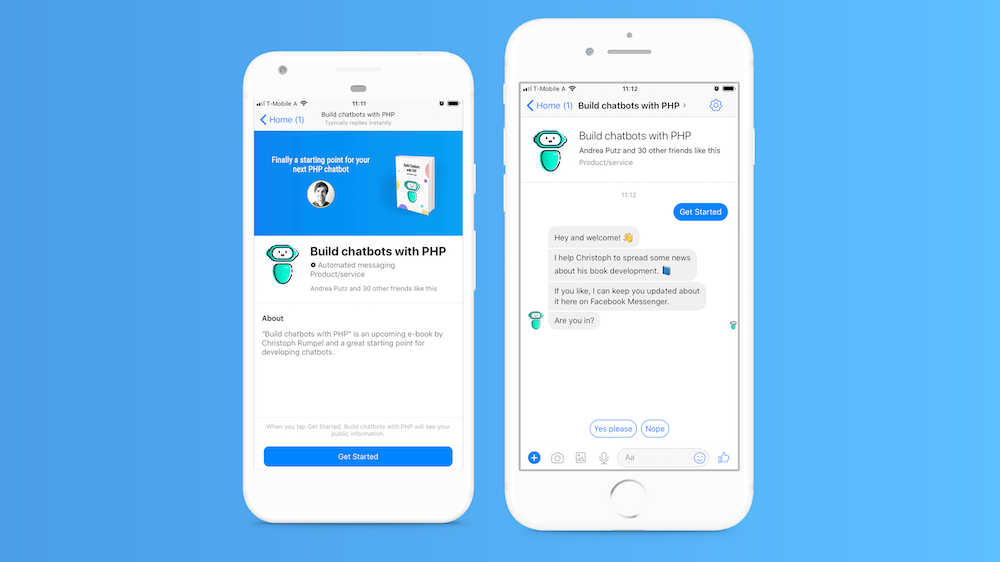
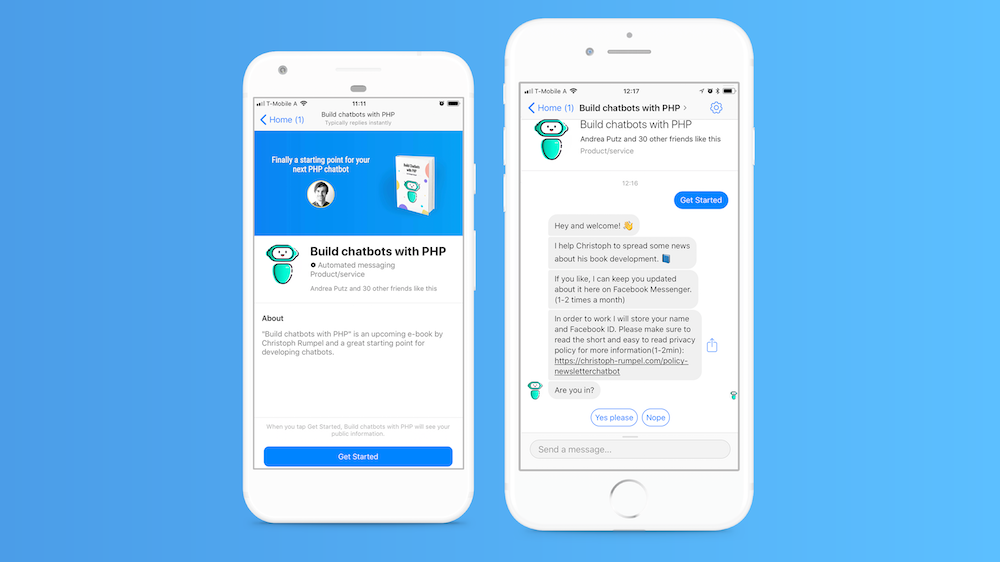
Update NL bot articles to follow the GDPR changes

diff --git a/content/posts/2018-03-08.build-a-newsletter-chatbot-in-php-part-2.md b/content/posts/2018-03-08.build-a-newsletter-chatbot-in-php-part-2.md
@@ -22,9 +22,6 @@ public function up()
         $table->string('fb_id');
         $table->string('first_name');
         $table->string('last_name');
-        $table->string('profile_pic')->nullable();
-        $table->string('locale', 8)->nullable();
-        $table->string('gender')->nullable();
         $table->boolean('subscribed')->default(false);
         $table->timestamps();
     });
@@ -35,37 +32,7 @@ Now create the table with `php artisan migrate`.
 
 <div class="blognote"><strong>Note:</strong> Make sure you have already setup your database in your .env file, to make this work.</div>
 
-With that done, we need a place where we add the users. For this purpose, I'd like to use a BotMan middleware. Like a Laravel middleware, it lets us perform tasks, at certain points of the request cycle. For all incoming messages, I want to add or update a user. We can use the BotMan `Heard Middleware` for that. It will be called every time a message was matched by a listener. <br /><br />
-Create the `SaveUserMiddleware.php` file inside `App\Http\Middleware`. Here is the code.
-
-```php
-<?php
-
-namespace App\Http\Middleware;
-
-use App\User;
-use BotMan\BotMan\BotMan;
-use BotMan\BotMan\Interfaces\Middleware\Heard;
-use BotMan\BotMan\Messages\Incoming\IncomingMessage;
-
-class SaveUserMiddleware implements Heard
-{
-    public function heard(IncomingMessage $message, $next, BotMan $bot)
-    {
-        $user = $bot->getUser();
-
-        if($user instanceof \BotMan\Drivers\Facebook\Extensions\User) {
-            User::createFromIncomingMessage($user);
-        }
-
-        return $next($message);
-    }
-}
-```
-
-Inside the `heard` method we grab the BotMan user object and put it inside a user model method. We need to check if the message is from Facebook Messenger because we are going to store specific Facebook values. To accomplish it we could check the matched BotMan driver,or like we did, check the user object. Every driver has their own user class.
-<br /><br />
-And in the `App/User.php` user model, we update or create the user.
+And in the `App/User.php` user model, we ad a method to update or create a user.
 
 ```php
 public static function createFromIncomingMessage(\BotMan\Drivers\Facebook\Extensions\User $user)
@@ -88,25 +55,20 @@ protected $fillable = [
     'fb_id',
     'first_name',
     'last_name',
-    'profile_pic',
-    'gender',
-    'locale',
 ];
 ```
-
-Last step here is to add the middleware in our `botman.php` file. Place it above the `hears` listeners.
+We want to add a new user after the subscription approval.
 
 ```php
-$middleware = new SaveUserMiddleware();
-$botman->middleware->heard($middleware);
+if ($answer->getValue() === 'yes') {
+	User::createFromIncomingMessage($this->bot->getUser());
+	$this->bot->reply('Wuhu, great to have you on board! 🎉');
+	$this->bot->reply('I will message you when there is something new to tell ✌');
+} else {
+	$this->bot->reply('Ok no problem. If change your mind, just type "subscribe".');
+}
 ```
-
-Don't forget to set the additional namespace `use App\Http\Middleware\SaveUserMiddleware;`.
-<br /><br />
-
-Give it a try. Type "subscribe" in the chat and with a little luck, you should get a reply and new user entry in your database.
-
-<img class="blogimage" alt="Screenshot showing the new user in the database" src="/images/blog/nl_bot_database.png" />
+Don't forget to add the user class namespace `use App\User;` to the top of the file as well. Give it a try. Type "subscribe" in the chat and with a little luck, you should get a reply and new user entry in your database.<br /><br />
 
 If not, check your logs for errors. If your app is responding to Facebook with a 500 error, make sure to uncomment the lines responsible for it immediately. This is important because Facebook will send, in case of an error, the message again and again. The sooner your application responds with a 200 code, the better it is. You can debug afterwards.
 
@@ -152,6 +114,7 @@ Nothing special here. We are just checking to see if the user exists and then ch
 
 ```php
 if ($answer->getValue() === 'yes') {
+	User::createFromIncomingMessage($this->bot->getUser());
     User::subscribe($answer->getMessage()->getSender()); // new
     $this->bot->reply('Woohoo, great to have you on board! 🎉');
     $this->bot->reply('I will message you when there is something new to tell ✌');
@@ -160,7 +123,6 @@ if ($answer->getValue() === 'yes') {
     $this->bot->reply('Ok no problem. If change your mind, just type "subscribe".');
 }
 ```
-You will also need to import the new user class `use App\User;` at the top of the file.
 And again please try it out yourself. When you subscribe, you should see that in the user table in your database.
 
 ## Sending newsletters
@@ -325,15 +287,11 @@ Another great little BotMan feature is the `fallback` method. For all incoming m
 <?php
 
 use BotMan\BotMan\BotMan;
-use App\Http\Middleware\SaveUserMiddleware;
 use App\Http\Conversations\SubscribeConversation;
 use BotMan\Drivers\Facebook\Extensions\ButtonTemplate;
 use BotMan\Drivers\Facebook\Extensions\ElementButton;
 
 $botman = resolve('botman');
-
-$middleware = new SaveUserMiddleware();
-$botman->middleware->heard($middleware);
 
 $botman->hears('GET_STARTED|subscribe', function (BotMan $bot) {
     $userFromStartButton = $bot->getMessage()->getText() === 'GET_STARTED' ? true : false;
@@ -412,7 +370,8 @@ It sends an HTTP request to Facebook and you should see a success message in you
 
 <img class="blogimage" alt="Screenshot showing our chatbots menu" src="/images/blog/nl_bot_menu.png" />
 
+<div class="blognote"><strong>Note:</strong> Due to the GDPR I had to add additional menu items to let users see the stored personal data and to let them delete it if wanted. Read more about in my article <a href="https://christoph-rumpel.com/2018/04/make-your-chatbots-gdpr-compliant">Make Your Chatbots GDPR Compliant</a>.</div>
 
 ## Next up
 
-That's it for part two of this little series. We are able to store users and to flag the subscribed ones. I also showed you how to send out your first newsletter and we integrated some extras for our bot. But we are not finished yet. The next part will be about adding this chatbot to a website and about writing our first tests. So stay tuned, for the third and final part.
+That's it for part two of this little series. We are able to store users and to flag the subscribed ones. I also showed you how to send out your first newsletter and we integrated some extras for our bot. But we are not finished yet. [The next part](https://christoph-rumpel.com/2018/03/build-a-newsletter-chatbot-in-php-part-3) will be about adding this chatbot to a website and about writing our first tests. So stay tuned, for the third and final part.

diff --git a/content/posts/2018-03-26.build-a-newsletter-chatbot-in-php-part-3.md b/content/posts/2018-03-26.build-a-newsletter-chatbot-in-php-part-3.md
@@ -157,14 +157,15 @@ Besides, we can trigger the other messages with the `subscribe` keyword as well.
 public function it_subscribes_a_user()
 {
     $this->bot->receives('subscribe')
-        ->assertReply('I help Christoph to spread some news about his book development. 📘')
-        ->assertReply('If you like, I can keep you updated about it here on Facebook Messenger.')
-        ->assertQuestion('Are you in?')
-        ->receives('yes')
-        ->assertReply('Woohoo, great to have you on board! 🎉')
-        ->assertReply('I will message you when there is something new to tell ✌')
-        ->assertReply("Christoph also likes to blog a lot. Make sure to check out his site for more chatbot stuff: \n ✨ https://christoph-rumpel.com/ ✨ ")
-        ->assertReply('See you! 👋');
+		->assertReply('I help Christoph to spread some news about his book development. 📘')
+		->assertReply('If you like, I can keep you updated about it here on Facebook Messenger. (1-2 times a month)')
+		->assertReply("In order to work I will store your name and Facebook ID. Please make sure to read the short and easy to read privacy policy for more information(1-2min): \nhttps://christoph-rumpel.com/policy-newsletterchatbot")
+		->assertQuestion('Are you in?')
+		->receives('yes')
+		->assertReply('Woohoo, great to have you on board! 🎉')
+		->assertReply('I will message you when there is something new to tell ✌')
+		->assertReply("Christoph also likes to blog a lot. Make sure to check out his site for more chatbot stuff: \n ✨ https://christoph-rumpel.com/ ✨ ")
+		->assertReply('See you! 👋');
 }
 ```
 Here we listen to the subscribe message, then assert some messages as well as a question. Additionally, we chain another incoming user message and assert the rest of the replies. `yes` is the value of our `Yes please` button. We can just use it as a trigger for the other messages. To test the negative reply, let's create another test method.
@@ -176,13 +177,14 @@ Here we listen to the subscribe message, then assert some messages as well as a 
 public function it_unsubscribes_a_user()
 {
     $this->bot->receives('subscribe')
-        ->assertReply('I help Christoph to spread some news about his book development. 📘')
-        ->assertReply('If you like, I can keep you updated about it here on Facebook Messenger.')
-        ->assertQuestion('Are you in?')
-        ->receives('no')
-        ->assertReply('Ok no problem. If change your mind, just type "subscribe".')
-        ->assertReply("Christoph also likes to blog a lot. Make sure to check out his site for more chatbot stuff: \n ✨ https://christoph-rumpel.com/ ✨ ")
-        ->assertReply('See you! 👋');
+		->assertReply('I help Christoph to spread some news about his book development. 📘')
+		->assertReply("If you like, I can keep you updated about it here on Facebook Messenger. (1-2 times a month)")
+		->assertReply("In order to work I will store your name and Facebook ID. Please make sure to read the short and easy to read privacy policy for more information(1-2min): \nhttps://christoph-rumpel.com/policy-newsletterchatbot")
+		->assertQuestion('Are you in?')
+		->receives('no')
+		->assertReply('Ok no problem. If you change your mind, just type "subscribe" or use the menu.')
+		->assertReply("Christoph also likes to blog a lot. Make sure to check out his site for more chatbot stuff: \n ✨ https://christoph-rumpel.com/ ✨ ")
+		->assertReply('See you! 👋');
 }
 ```
 
@@ -198,12 +200,11 @@ Here is the whole test file now.
 namespace Tests\BotMan;
 
 use Tests\TestCase;
-use Illuminate\Foundation\Testing\DatabaseMigrations;
+use Illuminate\Foundation\Testing\DatabaseTransactions;
 
 class SubscribeConversationTest extends TestCase
 {
-
-    use DatabaseMigrations;
+    use DatabaseTransactions;
 
     /**
      * @test
@@ -222,7 +223,8 @@ class SubscribeConversationTest extends TestCase
     {
         $this->bot->receives('subscribe')
             ->assertReply('I help Christoph to spread some news about his book development. 📘')
-            ->assertReply('If you like, I can keep you updated about it here on Facebook Messenger.')
+            ->assertReply('If you like, I can keep you updated about it here on Facebook Messenger. (1-2 times a month)')
+            ->assertReply("In order to work I will store your name and Facebook ID. Please make sure to read the short and easy to read privacy policy for more information(1-2min): \nhttps://christoph-rumpel.com/policy-newsletterchatbot")
             ->assertQuestion('Are you in?')
             ->receives('yes')
             ->assertReply('Woohoo, great to have you on board! 🎉')
@@ -238,14 +240,17 @@ class SubscribeConversationTest extends TestCase
     {
         $this->bot->receives('subscribe')
             ->assertReply('I help Christoph to spread some news about his book development. 📘')
-            ->assertReply('If you like, I can keep you updated about it here on Facebook Messenger.')
+            ->assertReply("If you like, I can keep you updated about it here on Facebook Messenger. (1-2 times a month)")
+            ->assertReply("In order to work I will store your name and Facebook ID. Please make sure to read the short and easy to read privacy policy for more information(1-2min): \nhttps://christoph-rumpel.com/policy-newsletterchatbot")
             ->assertQuestion('Are you in?')
             ->receives('no')
-            ->assertReply('Ok no problem. If change your mind, just type "subscribe".')
+            ->assertReply('Ok no problem. If you change your mind, just type "subscribe" or use the menu.')
             ->assertReply("Christoph also likes to blog a lot. Make sure to check out his site for more chatbot stuff: \n ✨ https://christoph-rumpel.com/ ✨ ")
             ->assertReply('See you! 👋');
     }
 }
+
+
 ```
 
 As you have probably noticed, we had to duplicate the beginning of the subscribe conversation. This is something that bothers me a lot, and I am already figuring out with Marcel how to create a better solution. Still, these few tests are beneficial and useful examples. 

diff --git a/content/posts/2018-02-28.build-a-newsletter-chatbot-in-php-part-1.md b/content/posts/2018-02-28.build-a-newsletter-chatbot-in-php-part-1.md
@@ -7,6 +7,8 @@ preview_image: images/blog/nl_bot_final.png
 
 <img class="blogimage" alt="Screenshot showing the final chatbot result" src="/images/blog/nl_bot_final.png" />
 
+<div class="blognote"><strong>Note:</strong> This turoial was updated on 24.04.2018 due to the GDPR. If you're interested in this new regulation, find my summary about it <a href="https://christoph-rumpel.com/2018/04/make-your-chatbots-gdpr-compliant">here</a>.</div>
+
 ## What book?
 
 Since the beginning of the year, I am working on a new project of mine. It's a book called [Build Chatbots with PHP](https://christoph-rumpel.com/build-chatbots-with-php). Follow the link to find out what it is about and who it is for.
@@ -209,7 +211,8 @@ class SubscribeConversation extends Conversation
     private function askAboutSubscription()
     {
         $this->bot->reply('I help Christoph to spread some news about his book development. 📘');
-        $this->bot->reply('If you like, I can keep you updated about it here on Facebook Messenger.');
+        $this->bot->reply("If you like, I can keep you updated about it here on Facebook Messenger. (1-2 times a month)");
+        $this->bot->reply("In order to work I will store your name and Facebook ID. Please make sure to read the short and easy to read privacy policy for more information(1-2min): \nhttps://christoph-rumpel.com/policy-newsletterchatbot");
 
         $question = Question::create('Are you in?')
             ->addButtons([

diff --git a/content/posts/2018-01-11.how-i-redesigned-my-blog-and-moved-it-from-jekyll-to-laravel.md b/content/posts/2018-01-11.how-i-redesigned-my-blog-and-moved-it-from-jekyll-to-laravel.md
@@ -158,14 +158,8 @@ Finally, I got a nice simple menu too, which is great for showing my talks. (com
 The new white background gives me the chance to introduce some new colors more efficiently than before. The primary highlight color is now a new fresh green which is used for the logo and my little "description" beneath my name. Then I got an orange for the categories and a light blue for the links. The rest are some grey variations. Overall the site is now more bright and colorful.
 
 <!-- Six columns -->
-<div class="flex mt-8">
-  <div class="w-1/6 bg-green h-12"></div>
-  <div class="w-1/6 bg-orange h-12"></div>
-  <div class="w-1/6 bg-blue-light h-12"></div>
-  <div class="w-1/6 bg-grey-light h-12"></div>
-  <div class="w-1/6 bg-grey-dark h-12"></div>
-  <div class="w-1/6 bg-grey-darkest h-12"></div>
-</div>
+
+
 
 ### Articles
 
